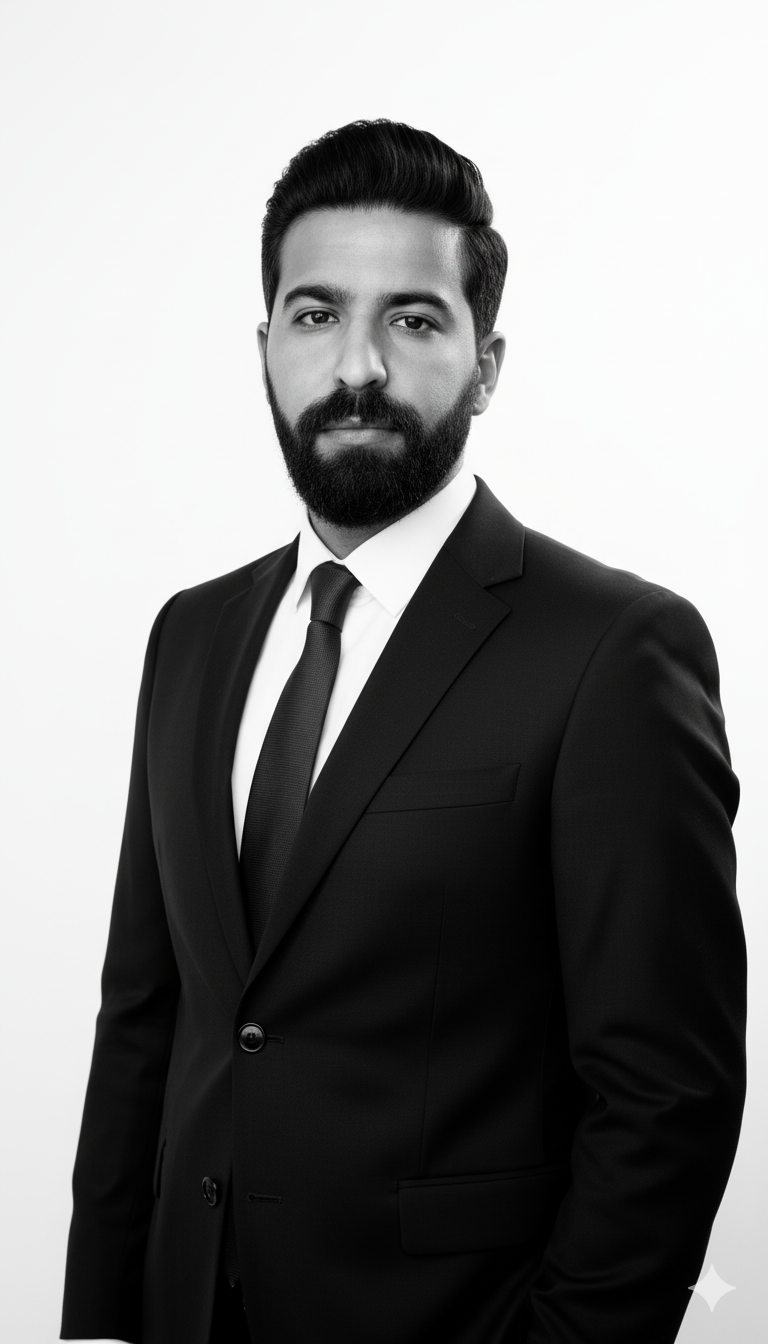
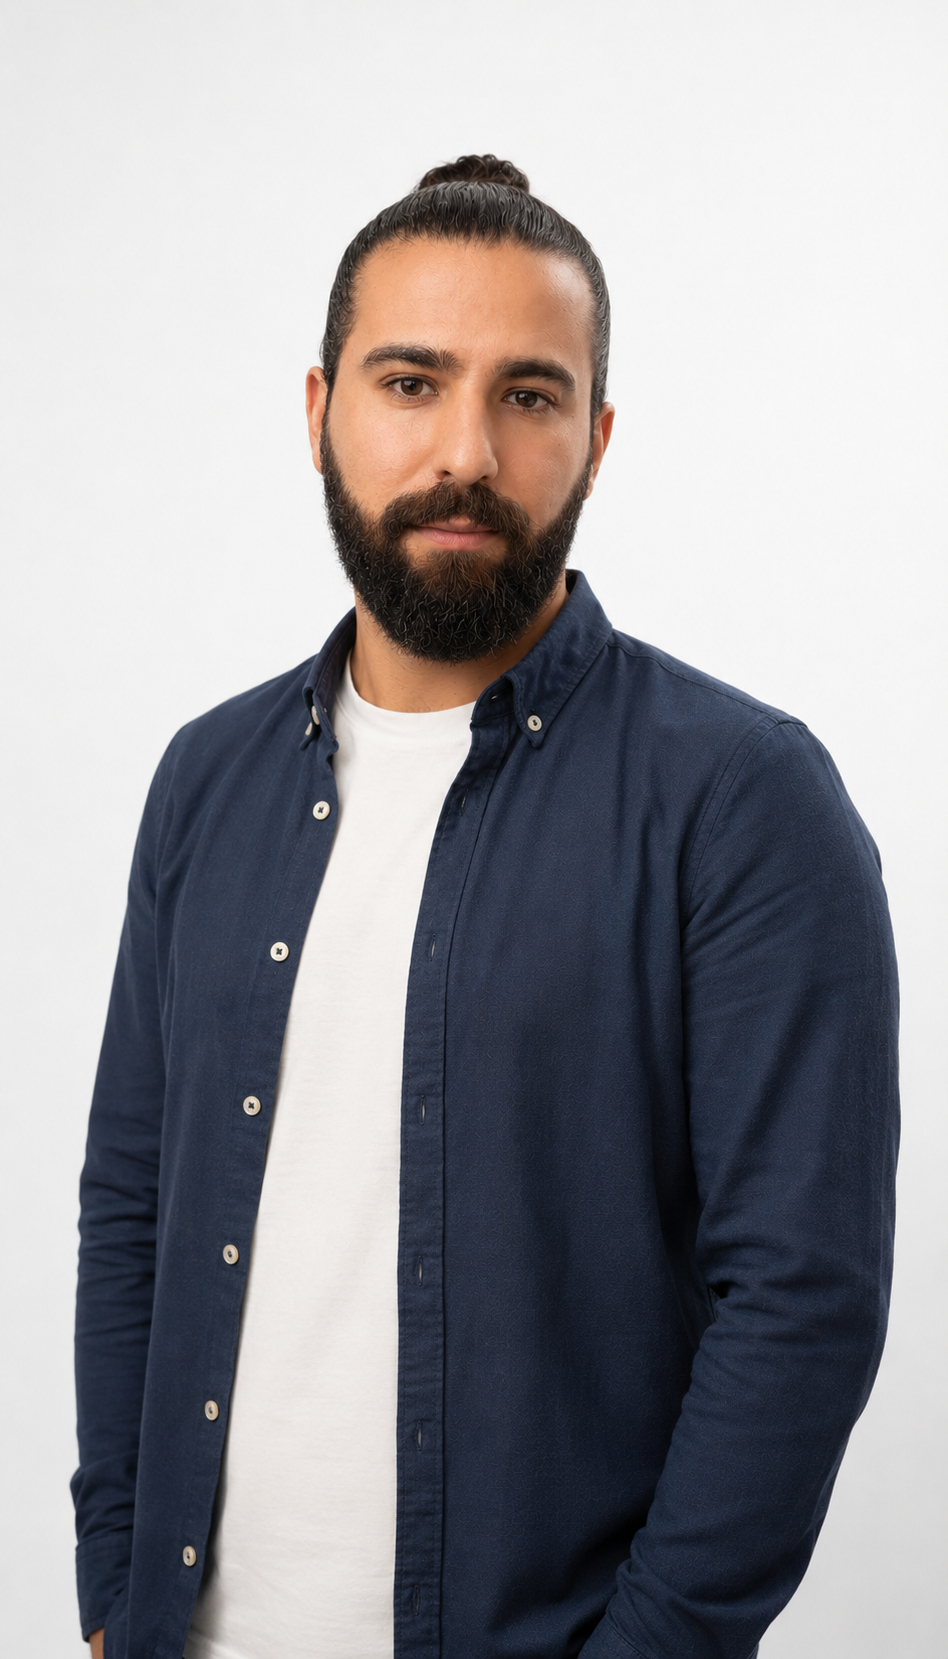
update

diff --git a/css/style.css b/css/style.css
@@ -847,7 +847,7 @@
 
     .photo-frame {
       position: relative;
-      border-radius: 4px;
+      border-radius: 52px;
       overflow: hidden;
       aspect-ratio: 3/4;
       max-height: 600px;
@@ -2475,7 +2475,7 @@
     .center-slider {
       justify-content: center;
     }
-    
+
     @media (max-width: 480px) {
       .center-slider {
         justify-content: flex-start;
